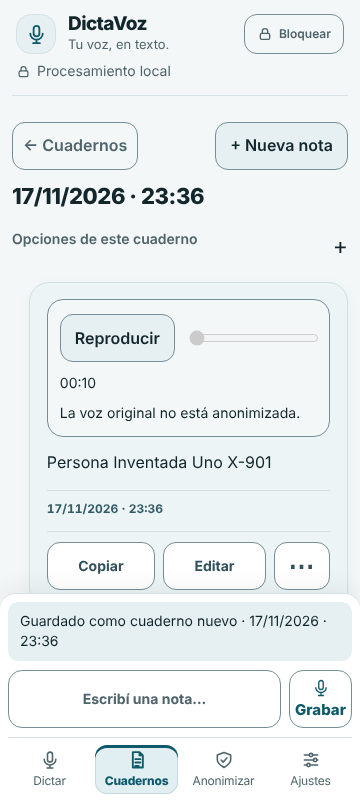
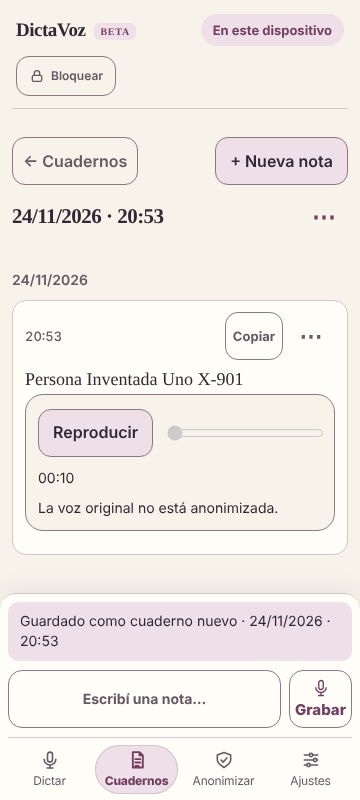
U14: botón «Transcribir audio» para notas con audio guardado y sin texto
Lee el audio de la nota (claro o cifrado), lo transcribe con el proceso de
siempre y deja el texto en el editor para revisarlo y guardarlo. Solo lee:
no agrega ni cambia audio. Prueba nueva en Chrome y en el CI.

Claude-Session: https://claude.ai/code/session_015Wyp5Py33qgXNV9yFVE2Un

diff --git a/index.html b/index.html
@@ -3334,7 +3334,9 @@ function renderConv(){
     const item = (label, fn, cls) => { const b = convButton(label, () => { convCloseMenu(false); fn(); }, cls); b.setAttribute('role', 'menuitem'); return b; };
     // Revisión 22/11: la burbuja muestra solo el texto, la hora y «⋯»; todas las acciones de la nota viven en ese menú.
     menu.append(item('Copiar', () => convCopy(e.text)), item('Editar', () => convEdit(e.id)), item('Mover a otro cuaderno', () => convAskMove('one', e.id)), item('Borrar esta nota', () => convDelete(e.id), 'ghost danger'));
-    acts.append(convButton('Copiar', () => convCopy(e.text)), more);
+    // U14: una nota con audio y sin texto (la transcripción falló o se cortó) ofrece volver a transcribir en lugar de «Copiar».
+    const sinTexto = !!e.audioId && !e.text.trim();
+    acts.append(sinTexto ? convButton('Transcribir audio', () => void convRetranscribe(e.id)) : convButton('Copiar', () => convCopy(e.text)), more);
     m.append(acts);
     if (e.audioId) {
       d.append(e3Player(e));
@@ -3378,6 +3380,33 @@ function convEdit(id){
   convCtx++; convAudioId = null; convAudioMs = null; convAudioBase = null;
   convEditingId = id; cur = null; $('text').value = e.text; baseline = e.text; resetEdit(); resetLive(); updWC(); saveDraft();
   renderConv(); $('text').focus();
+}
+/* U14 · Reintentar la transcripción de una nota que quedó con audio y sin texto.
+   Abre la nota en modo edición, lee SU audio guardado (cifrado o sin cifrar) y lo transcribe con el mismo proceso de siempre; el texto queda
+   en el editor para revisarlo y recién se guarda al tocar Guardar. No agrega ni cambia audio: solo lee. Si el audio no se puede leer o la
+   transcripción falla otra vez, la nota queda como estaba. */
+async function convRetranscribe(id){
+  const e = convEntry(id); if (!e || !e.audioId) return;
+  if (e.text.trim()) return flash('Esta nota ya tiene texto. Para no pisarlo, no se vuelve a transcribir.');
+  if (audioBusy() || convAudioWork()) return flash('Esperá a que termine la grabación, la transcripción o el guardado.');
+  if (!anAudioReady()) return flash('Desbloqueá la protección para transcribir este audio.');
+  if (convEditingId !== id && ($('title').value.trim() || tags.length)) return flash('Primero guardá o descartá la nota que estás escribiendo.');
+  if (convEditingId !== id) convEdit(id);
+  if (convEditingId !== id) return;   // convEdit ya explicó por qué no pudo abrirla
+  if ($('text').value.trim()) return flash('El editor ya tiene texto. Guardalo o cancelá la edición antes de transcribir.');
+  const audioId = e.audioId, hid = vault.header && vault.header.id;
+  const leer = async () => {
+    const db = await anDb(), meta = await anGetMeta(db, audioId);
+    if (!meta) throw new Error('el audio ya no está disponible');
+    let parts;
+    if (anIsPlainMeta(meta)) parts = await anPlainRead(db, audioId);
+    else { if (!anUsable()) throw new Error('desbloqueá la protección'); parts = await anReadAudio(db, vault.audioKey, hid, audioId); }
+    if (!parts.length) throw new Error('el audio está vacío');
+    return parts.map(p => p.blob);
+  };
+  document.querySelector('[data-delta-view="grabacion"]').click();   // el avance y los errores de la transcripción se ven en Dictar
+  flash('Transcribiendo el audio de la nota. Cuando termine, revisá el texto y tocá Guardar.');
+  return transcribeBlob(leer, e.durationMs == null ? null : e.durationMs, 'el audio de la nota');
 }
 function convDelete(id){
   const e = convEntry(id), audioId = e && e.audioId;
@@ -7554,6 +7583,13 @@ function inspectImport(blob){
   });
 }
 async function decodePcm(blob, rate){
+  if (Array.isArray(blob)) {   // audio de una nota con varias partes: se decodifica cada una y se unen en orden
+    const pcms = []; let n = 0;
+    for (const b of blob) { const p = await decodePcm(b, rate); pcms.push(p); n += p.length; }
+    const all = new Float32Array(n); let o = 0;
+    for (const p of pcms) { all.set(p, o); o += p.length; }
+    return all;
+  }
   const buf = await withDeadline(blob.arrayBuffer(), 15000, 'lectura del archivo');
   const ctx = new OfflineAudioContext(1, 1, rate);
   const ab = await withDeadline(new Promise((res, rej) => ctx.decodeAudioData(buf, res, rej)), 30000, 'decodificación del archivo');

diff --git a/CAMBIOS.md b/CAMBIOS.md
@@ -1,3 +1,12 @@
+## 24/11/2026 · U14: reintentar la transcripción de una nota con audio guardado (Claude; rama `feat/reintentar-transcripcion-2026-11-24`, base `1cb38a4`)
+
+- **Problema:** si la transcripción fallaba y «Conservar audio» estaba activado, la nota quedaba con el audio pero sin texto, y la única salida era escribir a mano o grabar de nuevo.
+- **Cambio:** una nota con audio y **sin texto** muestra el botón **«Transcribir audio»** (en lugar de «Copiar», que no tenía qué copiar). Al tocarlo, `convRetranscribe` abre esa nota en edición, lee **su** audio guardado (sin cifrar con `anPlainRead`; cifrado con `anReadAudio`, solo con la protección abierta) y lo transcribe con el mismo `transcribeBlob` de siempre. El texto queda en el editor para revisarlo y se confirma con **Guardar**, como cualquier edición: la nota conserva su fecha, su audio y su vínculo. `decodePcm` acepta una lista de partes (un audio puede venir de varias grabaciones).
+- **No cambia:** formato de notas, audio, cifrado, copias ni K2. No agrega ni modifica audio: solo lee. Una nota con texto no se vuelve a transcribir (no pisa nada). Si el audio falta o está dañado, se explica en el estado de Dictar y la nota queda como estaba. Cancelar la edición descarta el texto sin tocar la nota.
+- **Límite conocido:** el campo interno `transcriptionStatus` de la nota no se actualiza al guardar el texto (hoy no se muestra en ninguna pantalla).
+- **Pruebas:** `tests/reintentar-browser.mjs` (nueva, agregada al CI): Chrome real con audio sintético, con y sin protección; Whisper sustituido por un doble que cuenta las muestras recibidas. Comprueba botón, lectura del audio, texto en la misma nota, audio intacto, no pisa texto y mensaje si falta el audio. Se ajustó `tests/delta.test.mjs` (el botón directo de la burbuja). Node 203/203 y las suites de Chrome en verde en laboratorio.
+- **Tres niveles:** (a) código guardado en la rama; (b) pruebas técnicas en verde en laboratorio, CI por verificar en el PR; (c) **no probado en el Motorola**, y la transcripción real con Whisper tampoco se ejecutó (en laboratorio se usa un sustituto).
+
 ## 22/11/2026 · Cuaderno de margen (opción A)
 
 ChatGPT · rama `diseno/cuaderno-de-margen-2026-11-22` · base `6c503b8`. Se aplica la dirección elegida por Ignacio en la comparación visual. Paleta marfil/ciruela y tema nocturno, tipografía local de lectura, índice de cuadernos con vistas previas configurables, agrupación por fecha, copia directa y menú inferior móvil. Dictar expone la preferencia de audio también en Ajustes y oculta el reloj en reposo. La revisión posterior resalta editar y deshacer. La bienvenida se muestra en perfiles nuevos y se descarta al empezar. Cerrar la bienvenida recuerda un indicador visual del navegador independiente de la biblioteca; K2 sigue reconociendo una instalación vacía. El bloqueo, los siete apartados de Ajustes y el editor usan la misma paleta. No se cambian modelos, cifrado ni formato de las notas o de las copias.
